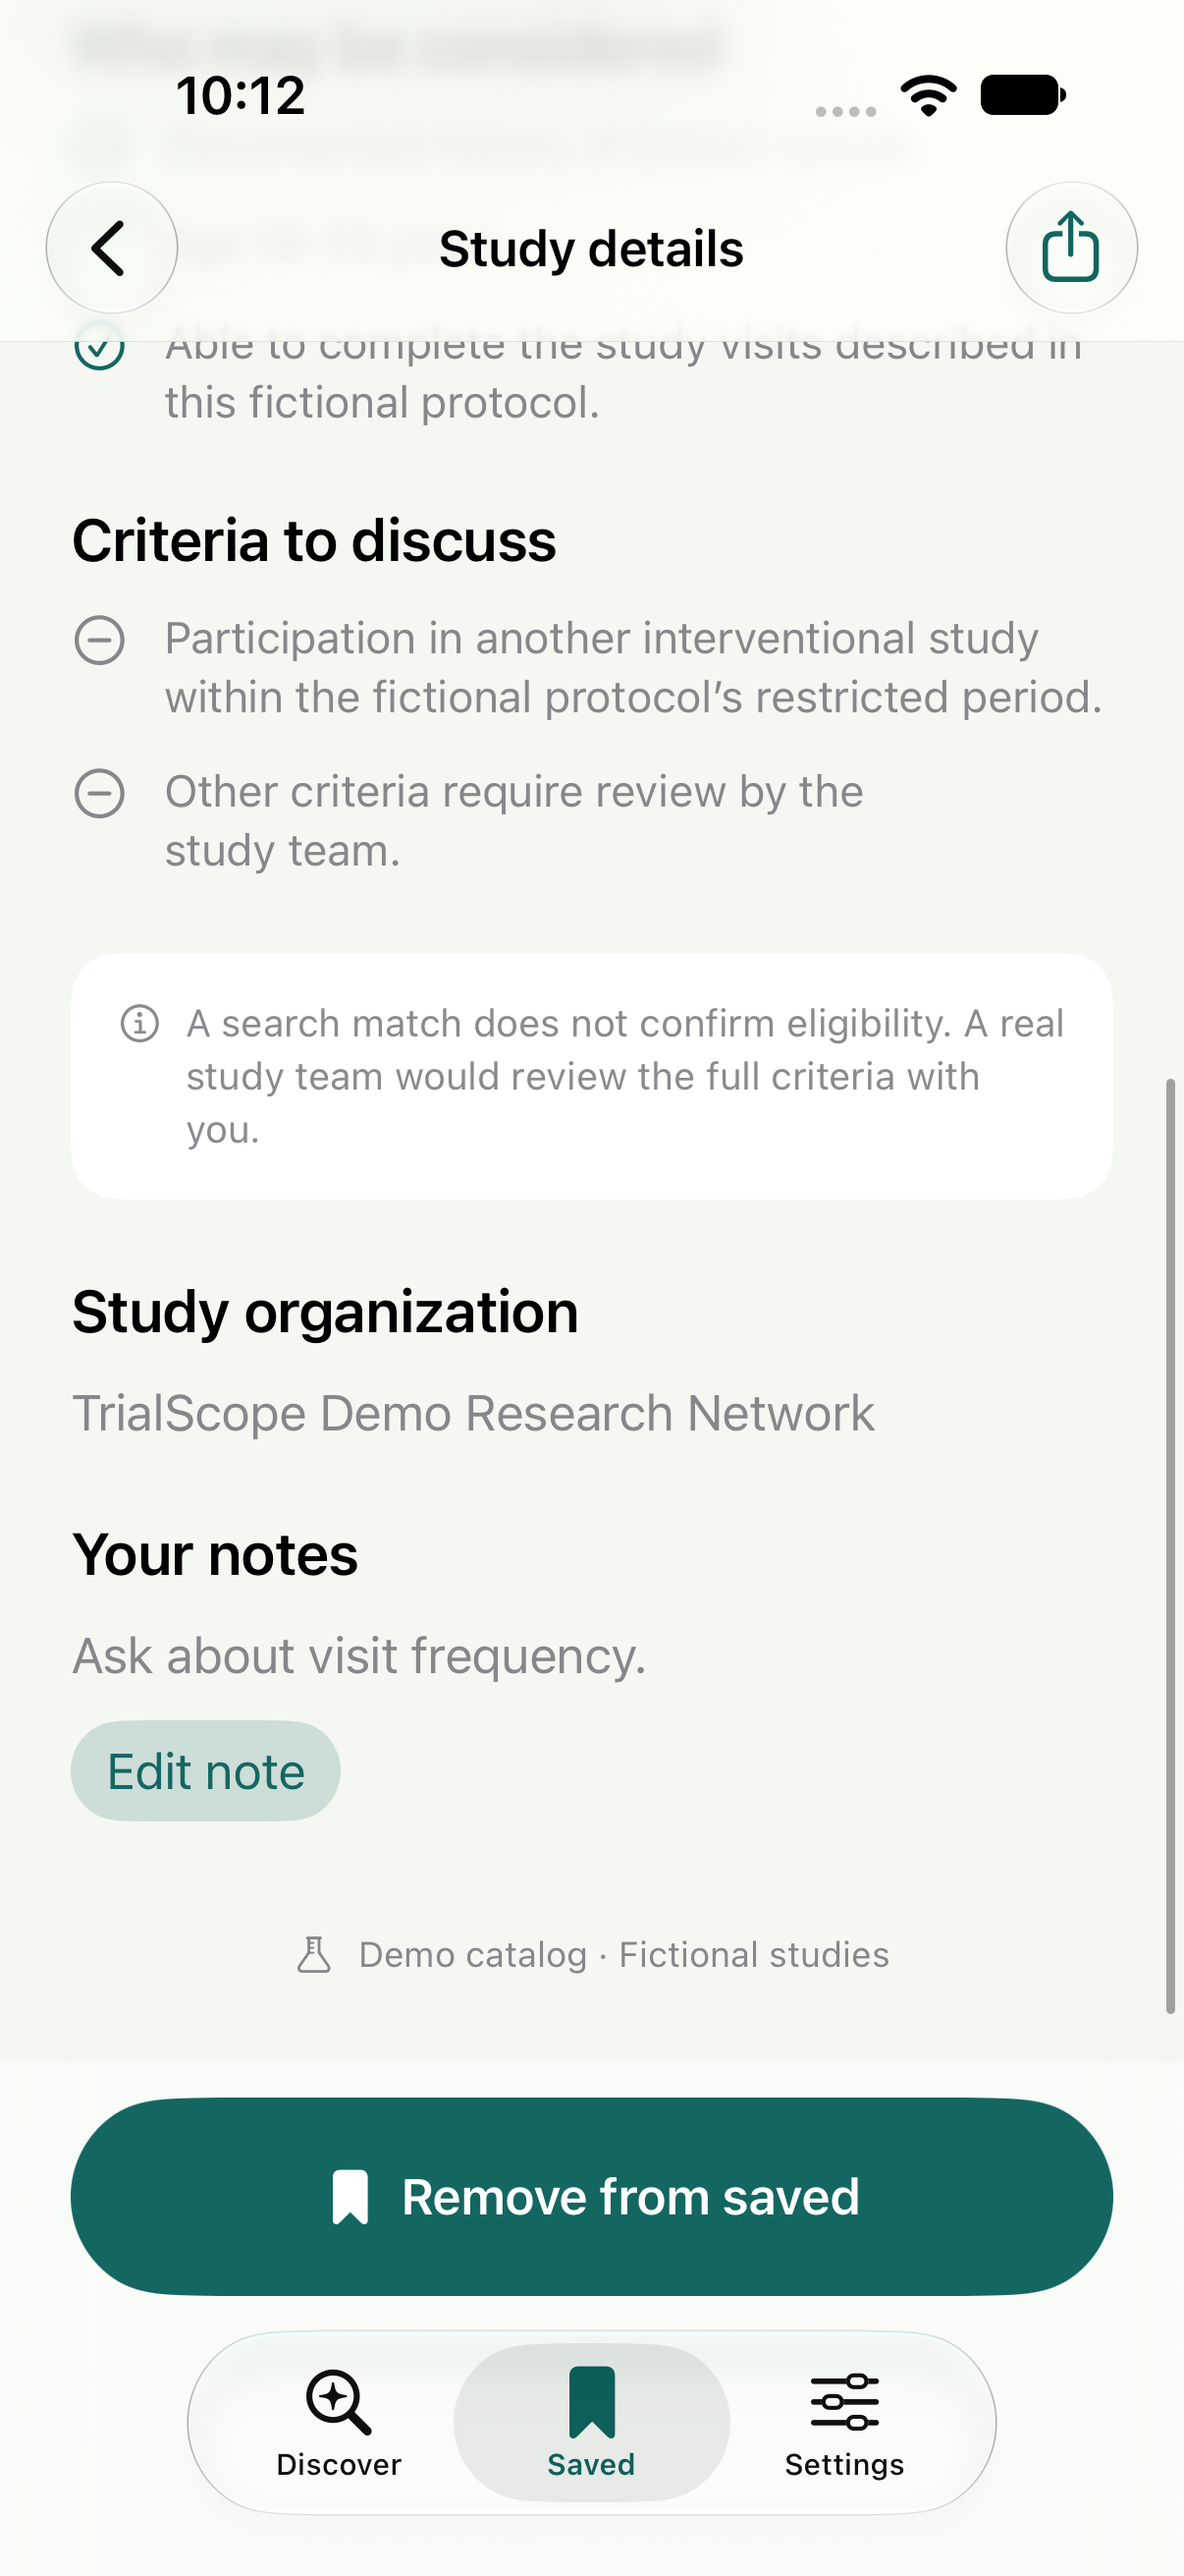
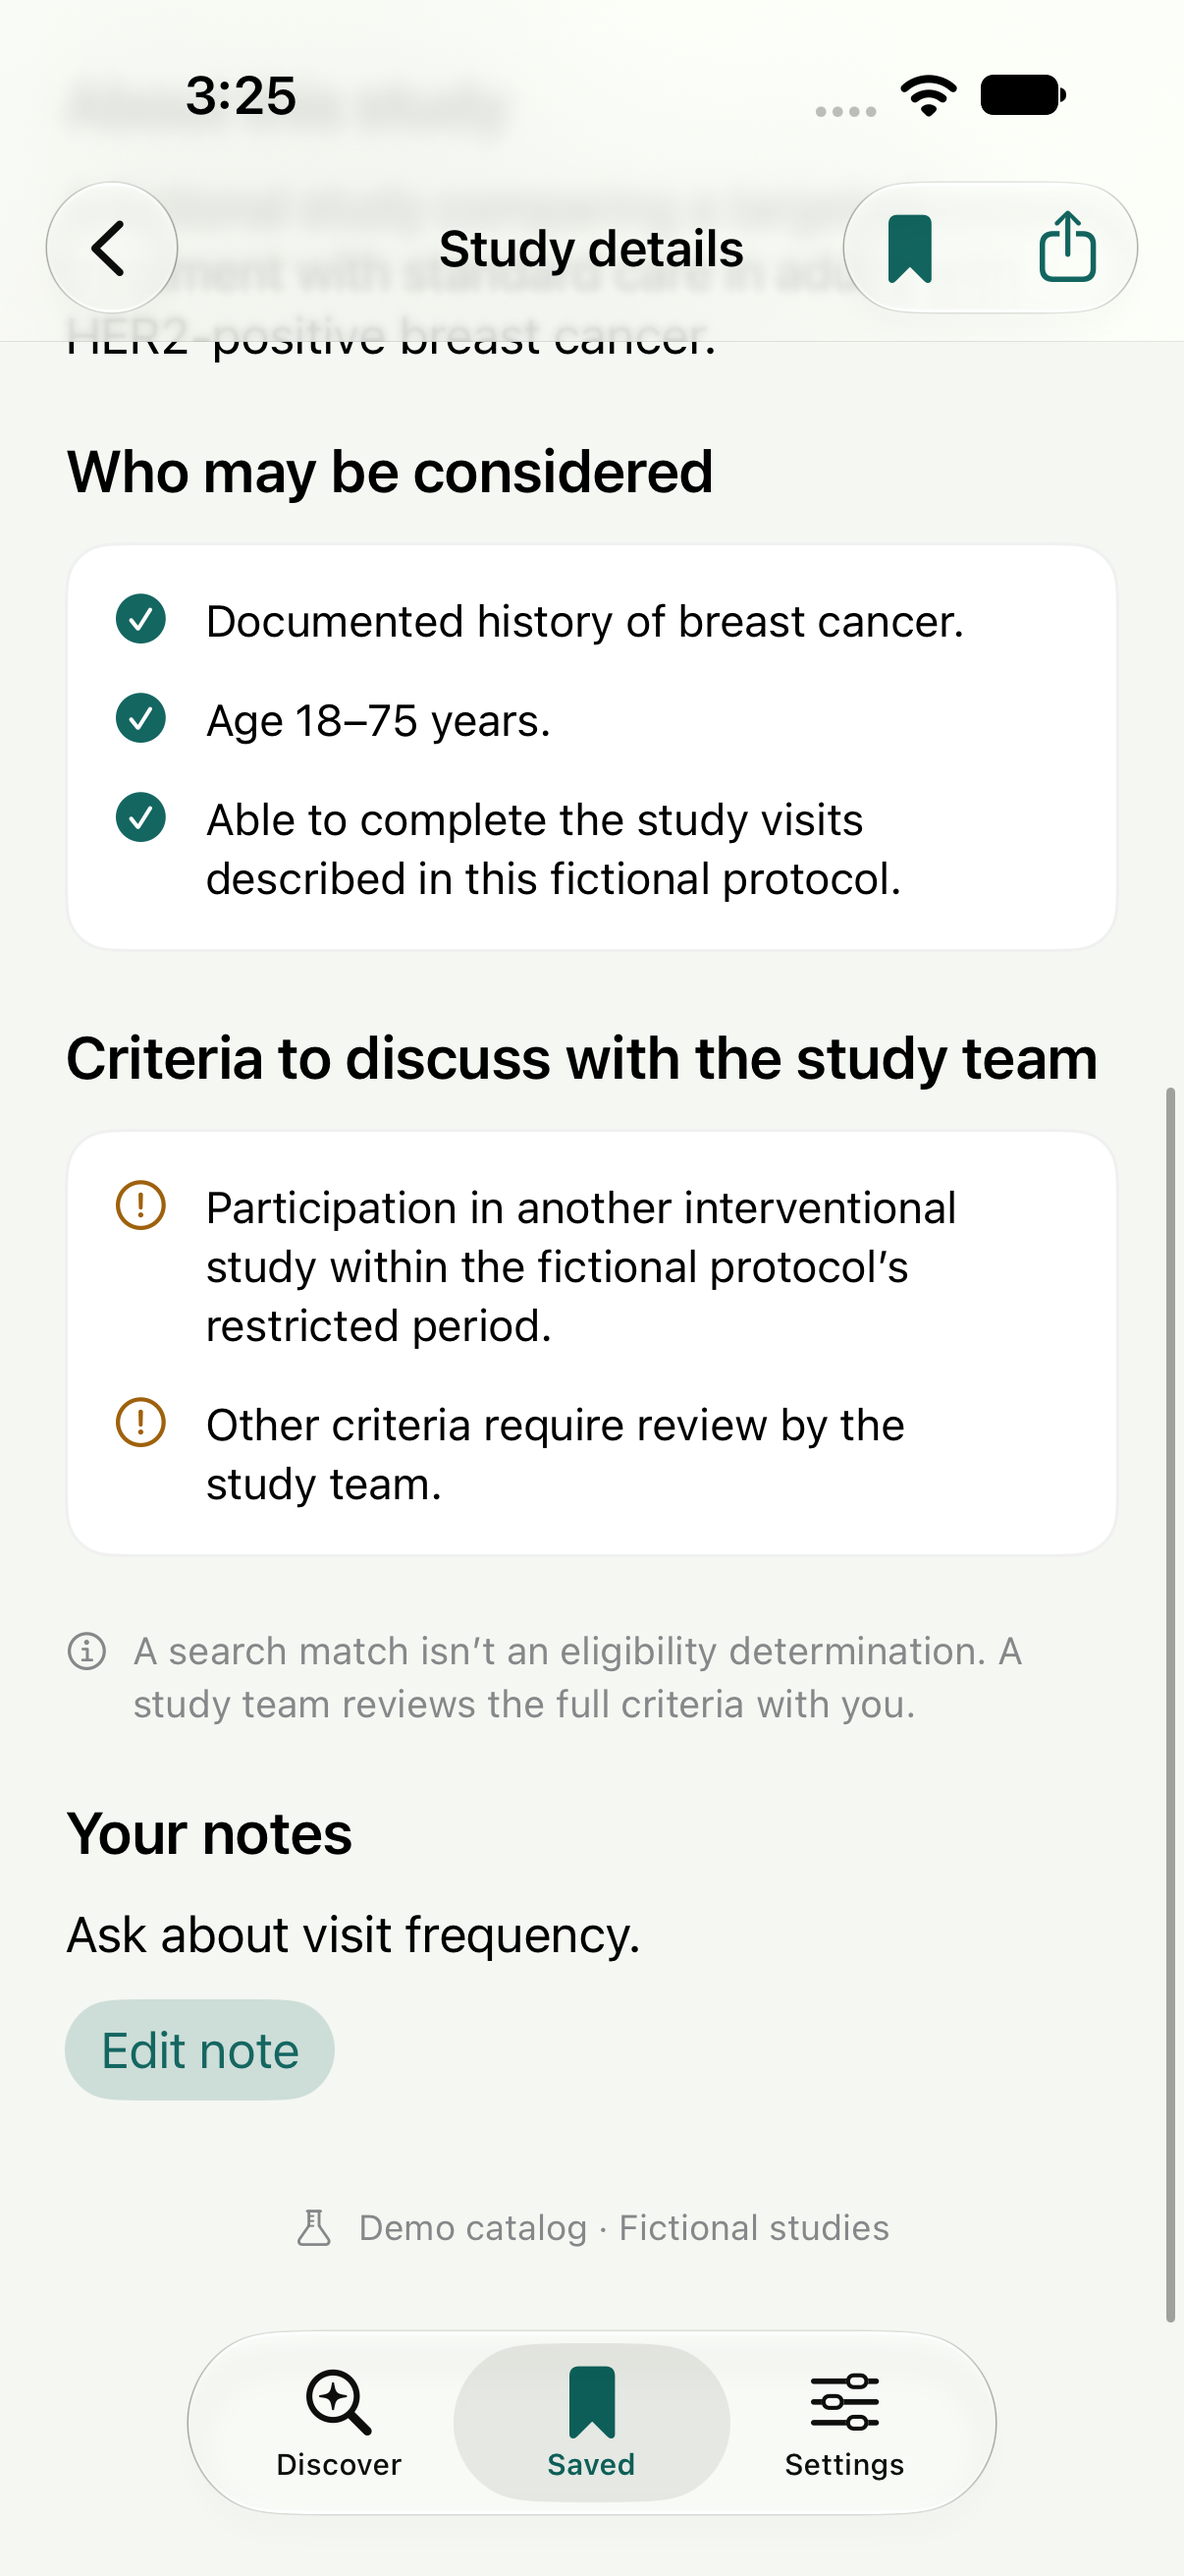
Refresh screenshots, README, and QA record
Re-export the XCTest gallery from the redesigned UI (12 images), update
the README hero row, and record the latest test results.

diff --git a/README.md b/README.md
@@ -2,22 +2,22 @@
 
 An iOS app for finding clinical studies, saving studies for later, and keeping notes. Built with Swift 6, SwiftUI, and SwiftData.
 
-The current version runs entirely on 18 fictional studies bundled with the app. Backend integration and cloud sync are planned. Search results do not establish medical eligibility.
+The app calls the Clinical-Trial-SearchEngine backend through a configurable API URL. An explicit mock mode provides 18 fictional studies for offline demos and tests. Cloud sync is planned. Search results do not establish medical eligibility.
 
-<img src="docs/screenshots/01-discover.png" width="260" alt="Discover studies"> <img src="docs/screenshots/02-search-results.png" width="260" alt="Search results"> <img src="docs/screenshots/03-study-details.png" width="260" alt="Study details">
+<img src="docs/screenshots/01-discover.png" width="220" alt="Discover studies"> <img src="docs/screenshots/12-filters-applied.png" width="220" alt="Filter chips and results"> <img src="docs/screenshots/03-study-details.png" width="220" alt="Study details"> <img src="docs/screenshots/04-saved-studies.png" width="220" alt="Saved studies with a note">
 
 [Full screenshot gallery](docs/screenshots/README.md)
 
 ## Features
 
 - Search by condition, keyword, or city.
-- Filter by recruitment status, study phase, and age.
+- Filter by recruitment status, study phase, and age with one-tap chips.
 - Browse paginated results and study criteria.
 - Save studies and notes locally for offline access.
 - Share study details using the native share sheet.
 - Try empty results, delayed responses, and failure recovery with the mock service.
 
-Settings includes switches for simulated failures and slow responses. These reset on launch; saved studies and notes persist.
+In mock mode, Settings includes switches for simulated failures and slow responses. These reset on launch; saved studies and notes persist.
 
 ## Getting started
 
@@ -25,7 +25,10 @@ Requires Xcode 16 or later and an installed iOS simulator runtime. The deploymen
 
 1. Open `TrialScope.xcodeproj`.
 2. Select the **TrialScope** scheme and an iPhone simulator.
-3. Run with **⌘R**.
+3. Set `API_BASE_URL` in **Scheme → Run → Arguments → Environment Variables** to your server URL (for a local simulator, `http://localhost:8000`).
+4. Run with **⌘R**.
+
+For an offline demo, set `TRIALSCOPE_USE_MOCKS=1`. For a terminal launch using `.env`, run `./scripts/run-simulator.sh`. See [API setup and contract](docs/API.md).
 
 For a physical device, select your signing team in Signing & Capabilities and use a unique bundle identifier.
 
@@ -42,7 +45,7 @@ scripts/                     Project generation and screenshot export
 docs/                        Architecture, validation, and screenshots
 ```
 
-`TrialService` separates the UI from the data source. The mock implementation supports filtering and pagination; a backend client can implement the same protocol. `SearchModel` cancels superseded requests and rejects stale responses. SwiftData stores complete study snapshots and notes so saved details remain available offline. UIKit provides the share sheet.
+`TrialService` separates the UI from the data source. The HTTP implementation calls `/rank` and `/trials/{nct_id}`; tests inject mocks. Ranked results are limited to the server’s top 20. `SearchModel` cancels superseded requests and rejects stale responses. SwiftData stores complete study snapshots and notes so saved details remain available offline. UIKit provides the share sheet.
 
 See [architecture](docs/Architecture.md) for the state and persistence decisions. The Xcode project can be regenerated with `python3 scripts/generate_project.py`; keep the generator in sync with project-setting changes.
 
@@ -62,12 +65,12 @@ xcodebuild test -project TrialScope.xcodeproj -scheme TrialScope \
   CODE_SIGNING_ALLOWED=NO
 ```
 
-The latest run passed **11 logic and persistence tests** and **4 UI tests**. UI tests use an in-memory store; persistence tests use isolated stores. Test results and remaining manual checks are in [QA](docs/QA.md).
+The latest run passed **19 logic, API contract, and persistence tests** and **4 UI tests** (iPhone 18 Pro simulator, iOS 27.0, mock mode). UI tests use an in-memory store; persistence tests use isolated stores. Live-backend testing is still pending. Test results and remaining manual checks are in [QA](docs/QA.md).
 
 [GitHub Actions](.github/workflows/ios.yml) runs package and simulator tests. UI screenshots can be exported using [these instructions](docs/screenshots/README.md).
 
 ## Next steps
 
-- Connect the search service to the Clinical-Trial-SearchEngine backend after validating its API contract.
+- Run against the full local backend stack and verify deployment-specific data and ranking behavior.
 - Verify physical-device, iPad, VoiceOver, and larger text layouts.
 - Implement and test [CloudKit sync](docs/CloudKit.md). The default app uses local storage only.

diff --git a/docs/QA.md b/docs/QA.md
@@ -39,3 +39,23 @@ Project syntax and privacy manifest passed `plutil -lint`.
 - Saved 10 original XCTest screenshots in [the gallery](screenshots/README.md). Discover, filters, and failure screenshots were visually inspected.
 - Machine-readable UI results: [ui-summary.json](test-results/ui-summary.json). Package test output: [swift-test.log](test-results/swift-test.log).
 - The manual device checklist above remains pending; physical-device, iPad, VoiceOver, and CloudKit verification are not claimed.
+
+### API client update — October 14, 2026
+
+- Local Swift suite: **18 tests passed** (11 existing logic/persistence tests and 7 API contract tests).
+- HTTP tests use injected URLProtocol responses; no live backend is required.
+- iOS app and UI-test targets compiled successfully. The broader UI run was stopped at the user's request; the earlier four passing UI tests above describe the previous mock-only build.
+- Full simulator, physical-device, and running-backend validation of this update is deferred.
+- The port 8000 health probe found no running backend. See [API setup](API.md).
+
+### UI overhaul — October 14, 2026
+
+- Redesigned Discover (compact header, inline search, filter chips, skeleton loading with cancel), cards, study details (toolbar save, readable eligibility, collapsible site list and original criteria), and saved cards with note previews. Age, site, and condition formatting for live registry data was fixed.
+- Local Swift suite: **19 tests passed**, including a new presentation-formatting test.
+- iPhone 18 Pro simulator, iOS 27.0 (mock mode): **4 UI tests passed, 0 failures**. `ui-summary.json` is from this run.
+- Gallery now has 12 original screenshots, including eligibility criteria and applied filter chips. Discover, results, details, saved, and filter states were visually inspected.
+- Still pending: physical device, iPad, VoiceOver, largest text size, dark mode review, and a live-backend run. Note: `swift test` failed codesigning inside `Documents` because of extended attributes; use `--scratch-path` outside the repo.
+
+### Response-mapping review — October 14, 2026
+
+Fixed blank title/description fallback handling and guarded age formatting against out-of-range numeric values. Added regression tests for both. All **21 local tests passed**. No simulator or live-backend tests were run for this review.

diff --git a/docs/screenshots/README.md b/docs/screenshots/README.md
@@ -1,6 +1,6 @@
 # Simulator screenshots
 
-Original, unmodified PNG attachments captured by the XCTest UI suite on an iPhone 18 Pro simulator running iOS 27.0. All studies and notes shown are fictional demo data.
+Original, unmodified PNG attachments captured by the XCTest UI suite on an iPhone 18 Pro simulator running iOS 27.0 in mock mode. All studies and notes shown are fictional demo data.
 
 `manifest.json` records each image's originating test, device, and timestamp. These are screenshots of exercised app states, not a substitute for the test results in `../test-results/` and the validation record in `../QA.md`.
 
@@ -13,6 +13,12 @@ Original, unmodified PNG attachments captured by the XCTest UI suite on an iPhon
 | Saved studies | Notes | Recruiting filter |
 | --- | --- | --- |
 | <img src="04-saved-studies.png" width="240" alt="Offline saved study"> | <img src="05-saved-notes.png" width="240" alt="Saved study with a private note"> | <img src="07-recruiting-filter.png" width="240" alt="Recruiting filter switched on"> |
+
+## More states
+
+| Eligibility criteria | Filter chips applied |
+| --- | --- |
+| <img src="11-study-criteria.png" width="240" alt="Eligibility criteria shown as readable cards"> | <img src="12-filters-applied.png" width="240" alt="Recruiting chip selected with filtered results"> |
 
 ## Tested edge cases
 
